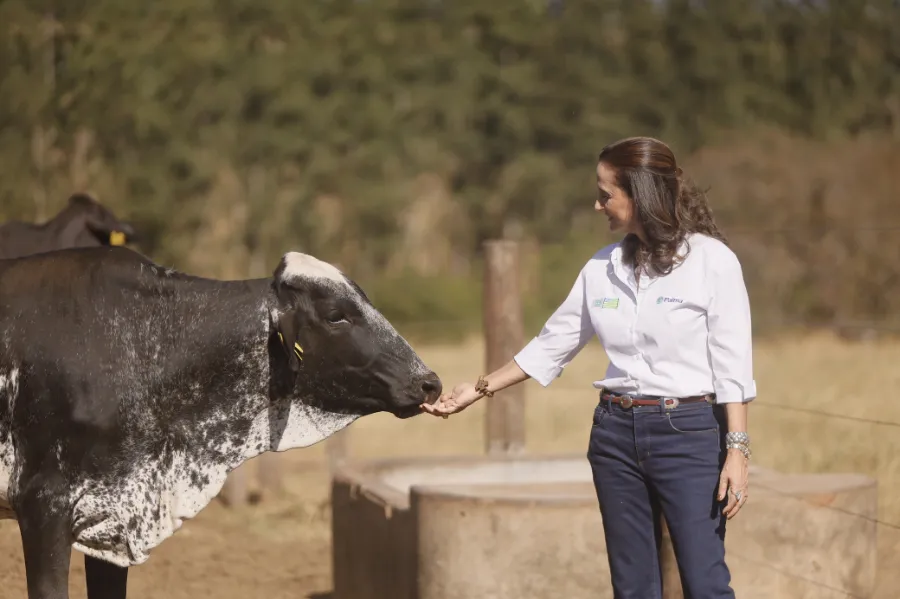
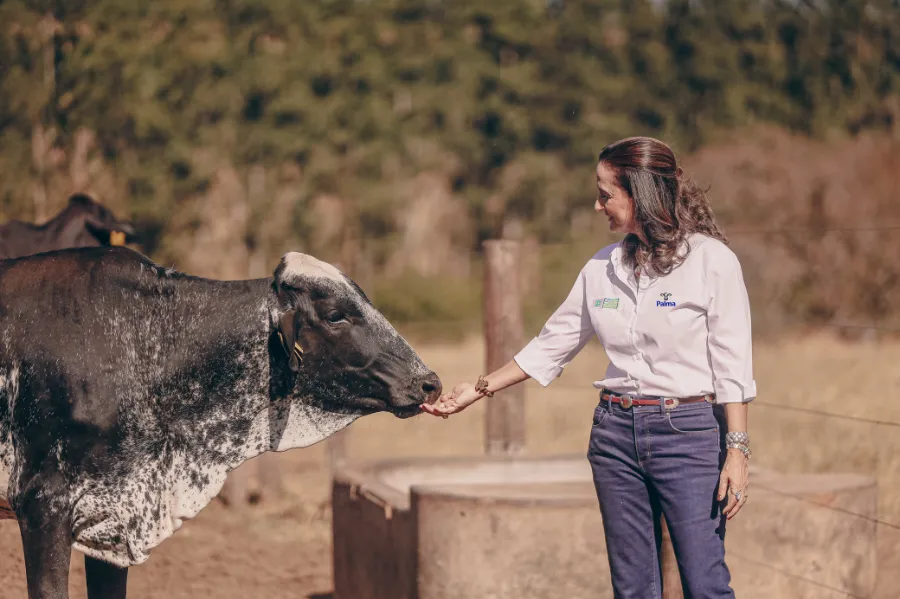
Fotos tratadas no lugar das antigas
Dez fotos do site ganharam a versao tratada, com os mesmos recortes. A vaca
com o bezerro, da Home, agora sai em 1024/1600/2000 a partir do original de
4140 px, no lugar do arquivo de 1537 px.

diff --git a/index.html b/index.html
@@ -181,6 +181,12 @@
                  ultima escolhida na sessao e evitam repetir, para quem sai
                  daqui para la nao ver a mesma foto duas vezes.
 
+                 A vaca com o bezerro e a _MG_8145, agora na versao tratada que
+                 chegou em 22/09/2026, em 4140 px: antes o site usava um arquivo
+                 de 1537 px e nao dava para crescer. Sai em 1024, 1600 e 2000;
+                 2400 pesaria 726 KB por causa da gra da palha, quase o dobro do
+                 de 2000, e nao vale o que se ganha.
+
                  Aereas da sessao de 11/06/2026. CREDITO PENDENTE: confirmar com
                  a Palma a autorizacao e o credito do fotografo. -->
             <picture class="origem__foto" id="origem-quadro">
@@ -190,9 +196,9 @@
             <script>
             (function () {
               var fotos = [
-      { l: "assets/fotos/fazenda-origem-paisagem-1024.webp 1024w, assets/fotos/fazenda-origem-paisagem-1537.webp 1537w",
-        p: "assets/fotos/fazenda-origem-retrato-560.webp 560w, assets/fotos/fazenda-origem-retrato-830.webp 830w",
-        id: "origem-vaca", src: "assets/fotos/fazenda-origem-paisagem-1537.webp", w: 1537, a: 1023,
+      { l: "assets/fotos/fazenda-origem-paisagem-1024.webp 1024w, assets/fotos/fazenda-origem-paisagem-1600.webp 1600w, assets/fotos/fazenda-origem-paisagem-2000.webp 2000w",
+        p: "assets/fotos/fazenda-origem-retrato-720.webp 720w, assets/fotos/fazenda-origem-retrato-1100.webp 1100w",
+        id: "origem-vaca", src: "assets/fotos/fazenda-origem-paisagem-1600.webp", w: 2000, a: 1331,
         alt: "Vaca preta e branca ao lado do bezerro recém-nascido, sobre a palha" },
       { l: "assets/fotos/fazenda/fz-aerea-represa-1000.webp 1000w, assets/fotos/fazenda/fz-aerea-represa-1600.webp 1600w, assets/fotos/fazenda/fz-aerea-represa-2400.webp 2400w",
         p: "assets/fotos/fazenda/fz-aerea-represa-r720.webp 720w, assets/fotos/fazenda/fz-aerea-represa-r1100.webp 1100w",
@@ -221,9 +227,9 @@
             </script>
             <noscript>
               <picture class="origem__foto">
-                <source media="(max-aspect-ratio: 5/6)" sizes="82vh" srcset="assets/fotos/fazenda-origem-retrato-560.webp 560w, assets/fotos/fazenda-origem-retrato-830.webp 830w">
-                <img src="assets/fotos/fazenda-origem-paisagem-1537.webp" srcset="assets/fotos/fazenda-origem-paisagem-1024.webp 1024w, assets/fotos/fazenda-origem-paisagem-1537.webp 1537w"
-                     sizes="100vw" width="1537" height="1023"
+                <source media="(max-aspect-ratio: 5/6)" sizes="82vh" srcset="assets/fotos/fazenda-origem-retrato-720.webp 720w, assets/fotos/fazenda-origem-retrato-1100.webp 1100w">
+                <img src="assets/fotos/fazenda-origem-paisagem-1600.webp" srcset="assets/fotos/fazenda-origem-paisagem-1024.webp 1024w, assets/fotos/fazenda-origem-paisagem-1600.webp 1600w, assets/fotos/fazenda-origem-paisagem-2000.webp 2000w"
+                     sizes="100vw" width="2000" height="1331"
                      alt="Vaca preta e branca ao lado do bezerro recém-nascido, sobre a palha">
               </picture>
             </noscript>
